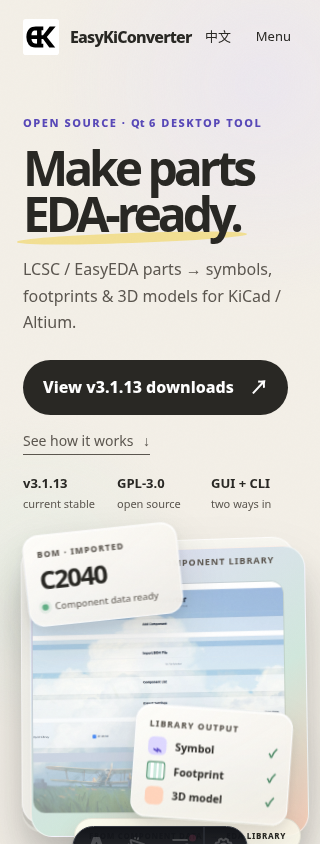
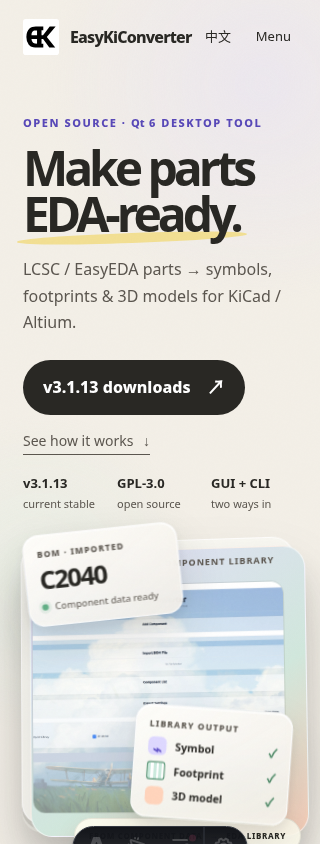
fix: shorten versioned release CTAs

Changed region(s): [[0.125, 0.4005, 0.9062, 0.4929]]

diff --git a/tests/site.spec.ts b/tests/site.spec.ts
@@ -25,8 +25,8 @@ for (const path of pages) {
     await expect(page.locator('[data-release-link]').first()).toHaveAttribute('href', /v3\.1\.13/);
     await expect(page.locator('.hero-actions [data-release-link]')).toHaveAttribute('href', /v3\.1\.13/);
     await expect(page.locator('.download-actions [data-release-link]')).toHaveAttribute('href', /v3\.1\.13/);
-    await expect(page.locator('.hero-actions [data-release-link]')).toContainText(/查看 v3\.1\.13 下载项|View v3\.1\.13 downloads/);
-    await expect(page.locator('.download-actions [data-release-link]')).toContainText(/查看 v3\.1\.13 下载项|View v3\.1\.13 downloads/);
+    await expect(page.locator('.hero-actions [data-release-link]')).toContainText(/v3\.1\.13 下载项|v3\.1\.13 downloads/);
+    await expect(page.locator('.download-actions [data-release-link]')).toContainText(/v3\.1\.13 下载项|v3\.1\.13 downloads/);
     await expect(page.locator('h1')).toBeVisible();
 
     const duplicateIds = await page.locator('[id]').evaluateAll((elements) => {
@@ -1808,7 +1808,7 @@ test('Lab pages clearly label the versioned release downloads page', async ({ pa
     await expect(link).toHaveAttribute('href', /releases\/tag\/v3\.1\.13/);
     await expect(link).toHaveAttribute('target', '_blank');
     await expect(link).toHaveAttribute('rel', 'noreferrer');
-    await expect(link).toContainText(/查看 v3\.1\.13 下载项|View v3\.1\.13 downloads/);
+    await expect(link).toContainText(/v3\.1\.13 下载项|v3\.1\.13 downloads/);
   }
 });
 
@@ -1819,7 +1819,7 @@ test('Formats and Cases CTAs clearly direct visitors to Release download options
     await expect(link).toHaveAttribute('href', /releases\/tag\/v3\.1\.13/);
     await expect(link).toHaveAttribute('target', '_blank');
     await expect(link).toHaveAttribute('rel', 'noreferrer');
-    await expect(link).toContainText(/查看 v3\.1\.13 下载项|View v3\.1\.13 downloads/);
+    await expect(link).toContainText(/v3\.1\.13 下载项|v3\.1\.13 downloads/);
 
     const copy = page.locator('.content-page-cta > div').first();
     await expect(copy).toContainText(/版本发布页选择安装包|release page/);

diff --git a/src/js/app.ts b/src/js/app.ts
@@ -20,7 +20,7 @@ const applyRelease = (tag: string, url: string, assetUrls: Record<string, string
     link.href = url;
     if (link.firstChild) {
       const isEnglish = document.documentElement.lang === 'en';
-      const label = isEnglish ? `View ${tag} downloads` : `查看 ${tag} 下载项`;
+      const label = isEnglish ? `${tag} downloads` : `${tag} 下载项`;
       link.firstChild.textContent = `${label}${link.querySelector('span') ? ' ' : ' ↗'}`;
     }
   });

diff --git a/docs/QUALITY_BASELINE_en.md b/docs/QUALITY_BASELINE_en.md
@@ -6,7 +6,7 @@ Recorded: 2026-10-16. This document records facts reproducible from the reposito
 
 ## Verified
 
-- 2026-10-16, PR #355 merged into `version/V0.0.1` (merge `48251d3`); PR Site Quality `38807819176`, Dependency Review `38807819227`, and post-merge Site Quality `38808569106` succeeded (224 passed, 4 skipped). A bilingual homepage visual review then found the English primary download CTA wrapping to two lines at 320px. The Release CTA copy and runtime version refresh are now unified across Home, Lab, Formats, and Cases as `View v3.1.13 downloads` / `查看 v3.1.13 下载项`, with a bilingual 320px single-line regression. English 320px before/after screenshots are `.github/pr-evidence/home-cta-{before,after}-en-320.png`. `pnpm run build` (8 pages, zero Astro diagnostics), `pnpm run check`, eight-route validation, model-asset checks, six Python unit tests, focused browser tests (18 passed), and full Playwright (226 passed, 4 skipped) passed. The Release API returned 403 during build, so the checked `v3.1.13` fallback was used. This batch targets `version/V0.0.1`; `master` and production were not changed. Real-device and network-performance validation remain pending.
+- 2026-10-16, PR #355 merged into `version/V0.0.1` (merge `48251d3`); PR Site Quality `38807819176`, Dependency Review `38807819227`, and post-merge Site Quality `38808569106` succeeded (224 passed, 4 skipped). A bilingual homepage visual review then found the English primary download CTA wrapping to two lines at 320px. The first PR #356 Site Quality run (`38811418997`) reproduced the wrap under Runner font metrics; after shortening the label again, focused browser tests (18 passed) and full Playwright (226 passed, 4 skipped) passed locally. Release CTA copy and runtime version refresh are unified across Home, Lab, Formats, and Cases as `v3.1.13 downloads` / `v3.1.13 下载项`, with a bilingual 320px single-line regression. English 320px before/after screenshots are `.github/pr-evidence/home-cta-{before,after}-en-320.png`. `pnpm run build` (8 pages, zero Astro diagnostics), `pnpm run check`, eight-route validation, model-asset checks, and six Python unit tests passed. An initial Release sync returned 403 and used the checked v3.1.13 fallback; a later build synced successfully. This batch targets `version/V0.0.1`; `master` and production were not changed. Real-device and network-performance validation remain pending.
 
 - 2026-10-16, PR #351 lowered Lab temporal-echo opacity and switched to normal blending; it was independently reviewed and merged into `version/V0.0.1` (merge `09dea67`). PR checks and post-merge Site Quality run `38791228566` passed (216 passed, 4 skipped). A subsequent Cases-page screenshot review found stretched desktop cards leaving excessive whitespace between the Altium summary and evidence. This change gives cards natural height and tightens evidence spacing. `pnpm run check`, `pnpm run build` (8 pages, zero Astro diagnostics), eight-route validation, model-asset checks, six Python unit tests, Playwright (218 passed, 4 skipped), and `git diff --check` passed. Before/after screenshots are in `.github/pr-evidence/cases-{before,after}-*`. The Release API returned 403 during build, so the checked `v3.1.13` fallback was used. PR #352 was independently approved and merged after required checks passed (merge `6949e4b`); post-merge Site Quality run `38795306114` passed (218 passed, 4 skipped). No production deployment or real-device test was performed.
 

diff --git a/docs/QUALITY_BASELINE.md b/docs/QUALITY_BASELINE.md
@@ -6,7 +6,7 @@
 
 ## 已验证
 
-- 2026-10-16，PR #355 合入 `version/V0.0.1`（merge `48251d3`）；PR Site Quality `38807819176`、Dependency Review `38807819227` 和合并后 Site Quality `38808569106` 成功（224 passed、4 skipped）。随后双语首页视觉审查发现英文版主下载 CTA 在 320px 折为两行。首页、Lab、Formats、Cases 的 Release CTA 文案和运行时版本刷新现统一为 `查看 v3.1.13 下载项 / View v3.1.13 downloads`，并新增 320px 双语单行回归。英文版 320px 前后截图见 `.github/pr-evidence/home-cta-{before,after}-en-320.png`。`pnpm run build`（8 页面，Astro 诊断为零）、`pnpm run check`、8 路由校验、模型资产检查、6 项 Python 单测、聚焦浏览器测试（18 passed）及完整 Playwright（226 passed、4 skipped）通过。构建时 Release API 返回 403，使用已检查的 `v3.1.13` 回退；该批次面向 `version/V0.0.1`，未更改 `master` 或生产站；未验证真机和网络性能。
+- 2026-10-16，PR #355 合入 `version/V0.0.1`（merge `48251d3`）；PR Site Quality `38807819176`、Dependency Review `38807819227` 和合并后 Site Quality `38808569106` 成功（224 passed、4 skipped）。随后双语首页视觉审查发现英文版主下载 CTA 在 320px 折为两行。PR #356 首轮 Site Quality run `38811418997` 在 Runner 字体下复现折行；进一步精简标签后，聚焦浏览器测试（18 passed）及完整 Playwright（226 passed、4 skipped）均通过。首页、Lab、Formats、Cases 的 Release CTA 文案和运行时版本刷新现统一为 `v3.1.13 下载项 / v3.1.13 downloads`，并新增 320px 双语单行回归。英文版 320px 前后截图见 `.github/pr-evidence/home-cta-{before,after}-en-320.png`。`pnpm run build`（8 页面，Astro 诊断为零）、`pnpm run check`、8 路由校验、模型资产检查和 6 项 Python 单测通过。首次本地 Release 同步遇到 403 并使用已检查的 `v3.1.13` 回退；后续构建同步成功。该批次面向 `version/V0.0.1`，未更改 `master` 或生产站；未验证真机和网络性能。
 
 - 2026-10-16，PR #351 将 Lab 时间回声改为更低透明度和普通混合，经独立审评合入 `version/V0.0.1`（merge `09dea67`）；PR 检查及合并后 Site Quality run `38791228566` 均通过（216 passed、4 skipped）。随后案例页截图发现桌面卡片等高拉伸使 Altium 卡片摘要与证据间留白过大。本轮改为卡片自然高度并缩短证据区间距；中英文桌面/移动截图复核通过。`pnpm run check`、`pnpm run build`（8 页面，Astro 诊断为零）、8 路由站点校验、模型资产校验、6 项 Python 单测、Playwright（218 passed、4 skipped）及 `git diff --check` 通过。前后截图见 `.github/pr-evidence/cases-{before,after}-*`。构建时 Release API 返回 403，使用 `v3.1.13` 回退；PR #352 经独立审批、必需检查及合并后 CI 通过，合并提交 `6949e4b`、Site Quality run `38795306114`（218 passed、4 skipped）。生产未部署、真机未验证。
 

diff --git a/docs/PROJECT_STATUS_en.md b/docs/PROJECT_STATUS_en.md
@@ -35,7 +35,7 @@ A read-only production check this cycle found all eight targets returning HTTP 2
 
 ## Milestones and Tasks
 
-Status update (2026-10-16): PR #355 merged into `version/V0.0.1` (merge `48251d3`); PR Site Quality run `38807819176`, Dependency Review run `38807819227`, and post-merge Site Quality run `38808569106` all succeeded. The post-merge browser suite passed 224 tests with 4 skipped. A subsequent bilingual homepage CTA review found that the English download button wrapped to two lines at 320px while Chinese stayed on one. This batch unifies the version-download CTA copy across Home, Lab, Formats, and Cases, with a 320px single-line regression. Build, Astro diagnostics, eight-route validation, model-asset checks, six Python unit tests, and full Playwright (226 passed, 4 skipped) passed locally; English before/after screenshots are `.github/pr-evidence/home-cta-{before,after}-en-320.png`. The Release API returned 403, so the checked `v3.1.13` fallback was used. The change targets `version/V0.0.1`; `master` and production were not changed. Real-device and network-performance validation remain pending.
+Status update (2026-10-16): PR #355 merged into `version/V0.0.1` (merge `48251d3`); PR Site Quality run `38807819176`, Dependency Review run `38807819227`, and post-merge Site Quality run `38808569106` all succeeded. The post-merge browser suite passed 224 tests with 4 skipped. A subsequent bilingual homepage CTA review found that the English download button wrapped to two lines at 320px while Chinese stayed on one. The first PR #356 Site Quality run (`38811418997`) confirmed the wrap under GitHub Runner font metrics; after further shortening the label, focused and full local Playwright runs passed (226 passed, 4 skipped). The version-download CTA copy is unified across Home, Lab, Formats, and Cases, with a 320px single-line regression. Build, Astro diagnostics, eight-route validation, model-asset checks, and six Python unit tests passed locally; English before/after screenshots are `.github/pr-evidence/home-cta-{before,after}-en-320.png`. An initial Release sync returned 403 and used the checked v3.1.13 fallback; a later build synced successfully. The change targets `version/V0.0.1`; `master` and production were not changed. Real-device and network-performance validation remain pending.
 
 PR #347 reduces ambient, fill, and front-light intensity to improve depth across the 3D Lab board and pale components; no model asset or geometry changed. It was approved by Feng083 and merged into `version/V0.0.1` (merge `b737278`). PR and post-merge Site Quality runs `38766117318` and `38766745155` passed (208 passed, 4 skipped); `pnpm build`, eight-route validation, and model-asset checks also passed. The local Release API returned 403 and the checked-in fallback was used as documented. Screenshots still showed prominent bright lines; their source was not yet identified, so this remained partially complete. No production deployment or real-device test was performed.
 

diff --git a/docs/PROJECT_STATUS.md b/docs/PROJECT_STATUS.md
@@ -34,7 +34,7 @@
 
 ## 里程碑与任务
 
-状态更新（2026-10-16）：PR #355 已合入 `version/V0.0.1`（merge `48251d3`），PR Site Quality run `38807819176`、Dependency Review `38807819227` 和合并后 Site Quality run `38808569106` 均成功；合并后浏览器测试 224 passed、4 skipped。随后首页双语 CTA 复核发现英文下载按钮在 320px 下折为两行，而中文为一行。本轮将首页、Lab、Formats、Cases 的版本下载入口统一为紧凑的双语文案，并添加 320px 单行回归。构建、Astro 检查、8 路由校验、模型资源检查、6 项 Python 单测及完整 Playwright（226 passed、4 skipped）通过；英文前后图见 `.github/pr-evidence/home-cta-{before,after}-en-320.png`。Release API 返回 403，使用已检查的 `v3.1.13` 回退数据。改动面向 `version/V0.0.1`，未更改 `master` 或生产站；真机和网络性能仍未验证。
+状态更新（2026-10-16）：PR #355 已合入 `version/V0.0.1`（merge `48251d3`），PR Site Quality run `38807819176`、Dependency Review `38807819227` 和合并后 Site Quality run `38808569106` 均成功；合并后浏览器测试 224 passed、4 skipped。随后首页双语 CTA 复核发现英文下载按钮在 320px 下折为两行，而中文为一行。PR #356 首轮 Site Quality run `38811418997` 证实 GitHub Runner 字体下英文标签仍折行；进一步精简文案后，本机聚焦与完整 Playwright（226 passed、4 skipped）均通过。首页、Lab、Formats、Cases 的版本下载入口统一为紧凑的双语文案，并添加 320px 单行回归。构建、Astro 检查、8 路由校验、模型资源检查、6 项 Python 单测通过；英文前后图见 `.github/pr-evidence/home-cta-{before,after}-en-320.png`。首次本地 Release 同步遇到 403 并回退到已检查的 `v3.1.13`；后续构建同步成功。改动面向 `version/V0.0.1`，未更改 `master` 或生产站；真机和网络性能仍未验证。
 
 PR #347 将 3D Lab 的环境光、补光和正面光强度调低，以改善板体及浅色元件的层次；未改模型资产或几何。经 Feng083 审批后合入 `version/V0.0.1`（merge `b737278`），PR 与合并后 Site Quality run `38766117318`、`38766745155` 均通过（208 passed、4 skipped）；`pnpm build`、8 路由校验、模型资产检查亦通过。Release API 本机返回 403 并按规则使用回退数据。截图仍有明显亮线，来源当时尚未确认；继续列为部分完成。未部署生产或验证真机。
 
